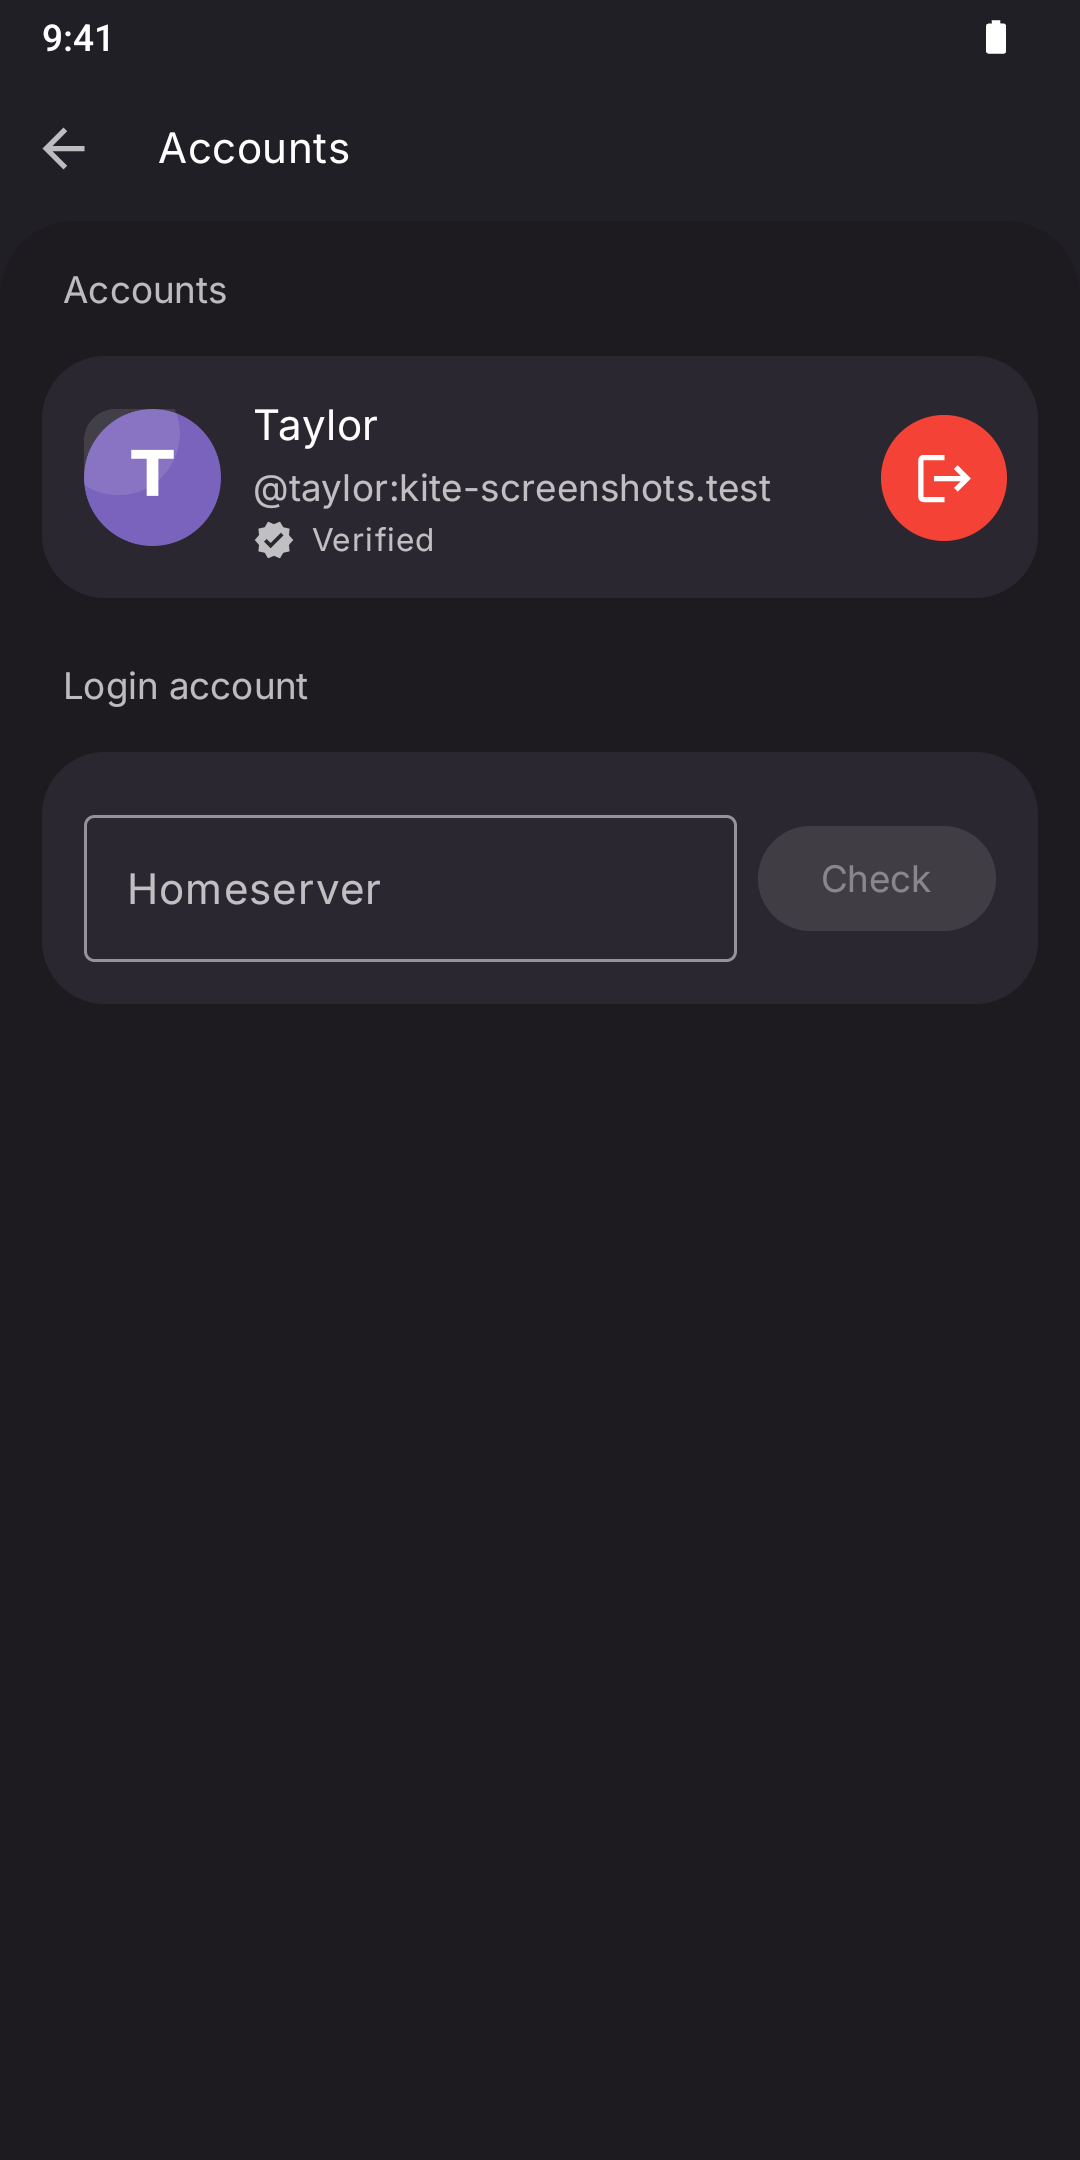
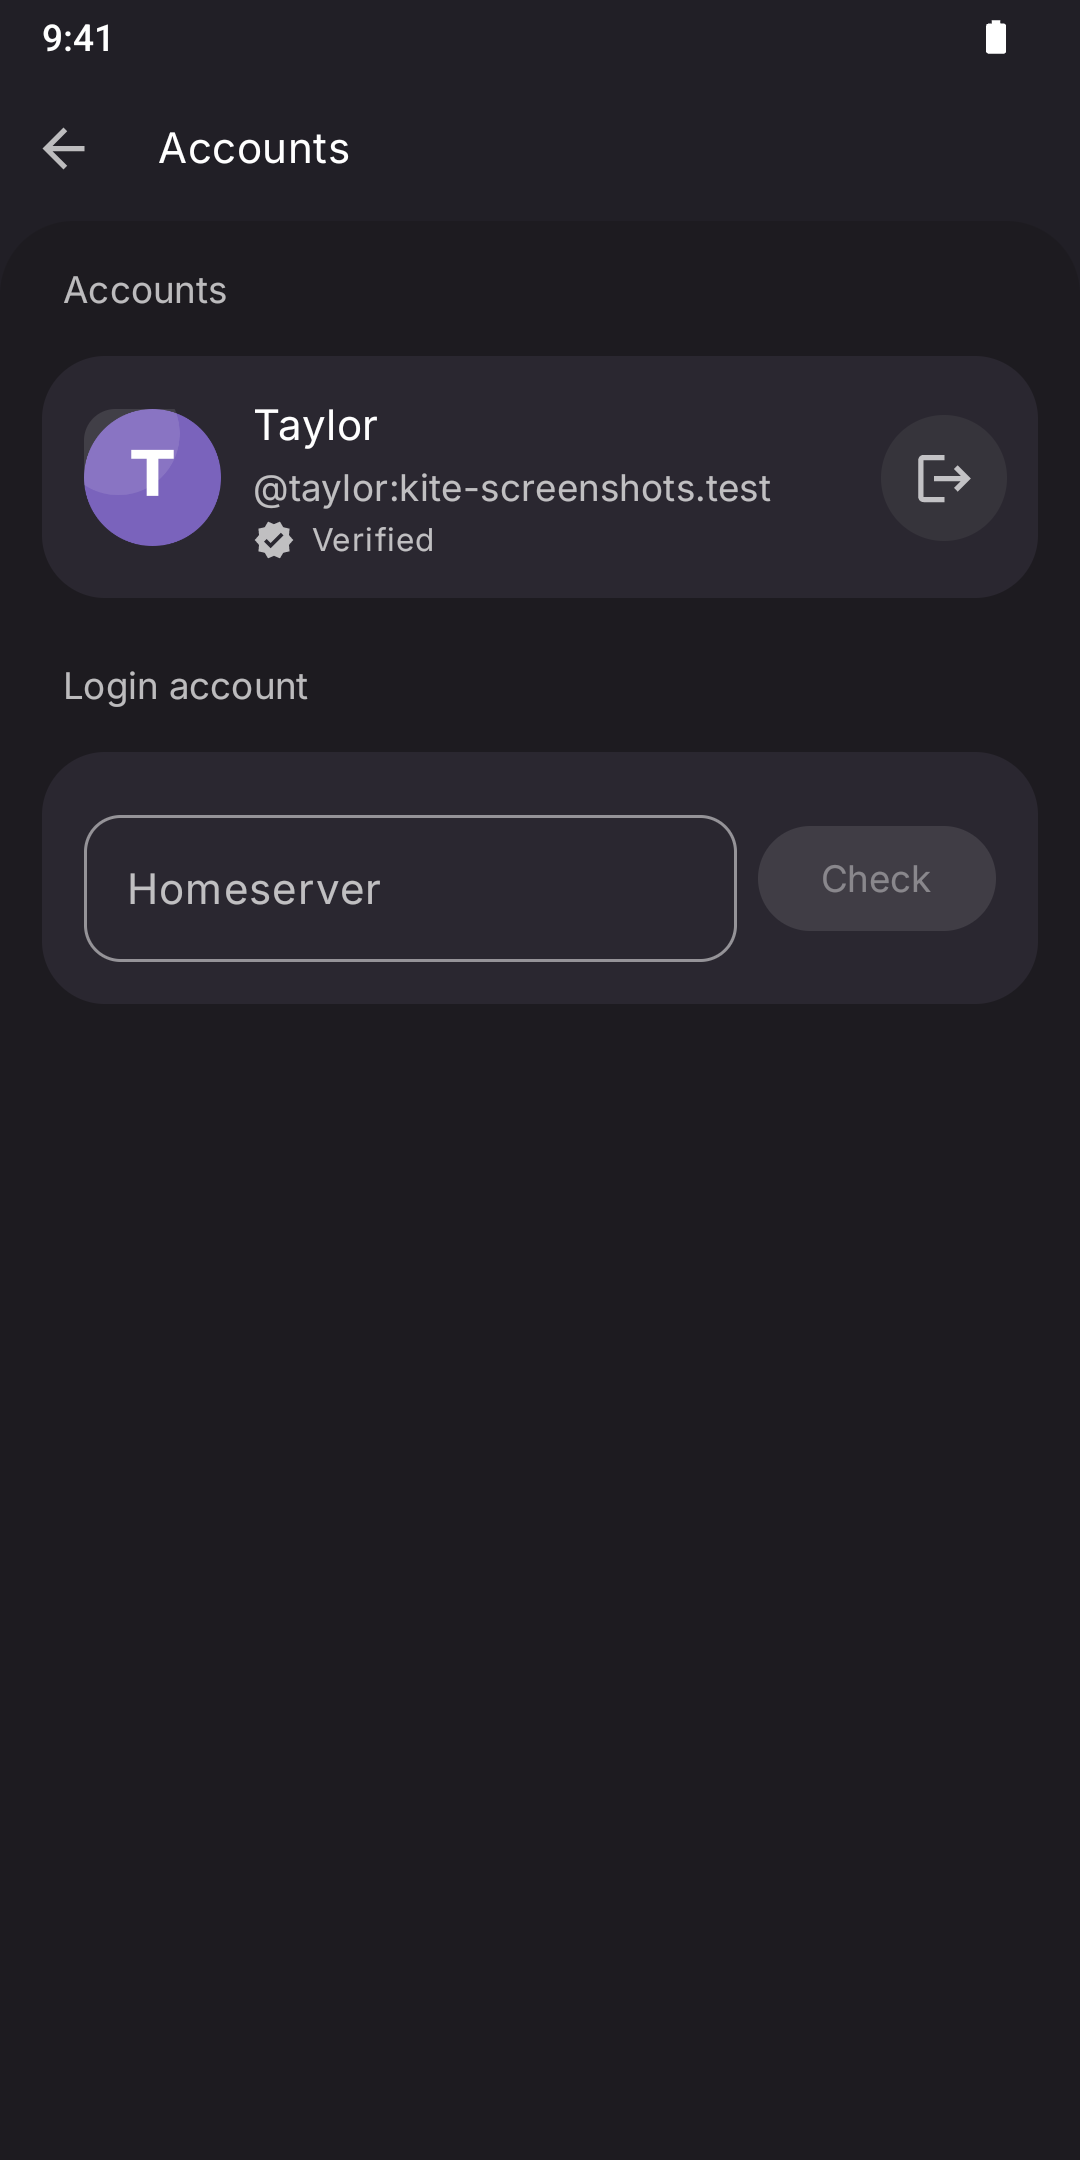
polish(kite): align account controls with tonal cards

Changed region(s): [[0.7944, 0.1861, 0.9472, 0.2481]]

diff --git a/composeApp/src/jvmMain/kotlin/chat/schildi/revenge/compose/destination/AccountManagementScreen.kt b/composeApp/src/jvmMain/kotlin/chat/schildi/revenge/compose/destination/AccountManagementScreen.kt
@@ -269,7 +269,7 @@ private fun ExistingLogin(account: AccountManagementData, viewModel: AccountMana
                 AccountManagementIconButton(
                     icon = rememberVectorPainter(Icons.AutoMirrored.Default.Logout),
                     contentDescription = stringResource(Res.string.action_logout),
-                    tint = MaterialTheme.colorScheme.onErrorContainer,
+                    tint = MaterialTheme.colorScheme.onSurfaceVariant,
                     focusId = logoutFocusId,
                 ) {
                     keyboardActionHandler.handleAction(
@@ -305,6 +305,7 @@ private fun ExistingLogin(account: AccountManagementData, viewModel: AccountMana
                         onValueChange = { recoveryKey = it },
                         label = { Text(stringResource(Res.string.hint_recovery_key)) },
                         singleLine = true,
+                        shape = RoundedCornerShape(14.dp),
                         modifier = Modifier.weight(1f).keyFocusable(FocusRole.TEXT_FIELD_SINGLE_LINE),
                     )
                     // TODO move to VM
@@ -490,6 +491,7 @@ private fun NewLogin(viewModel: AccountManagementViewModel) {
                 onValueChange = { homeserver = it },
                 label = { Text(stringResource(Res.string.hint_homeserver)) },
                 singleLine = true,
+                shape = RoundedCornerShape(14.dp),
                 modifier = Modifier.weight(1f).keyFocusable(FocusRole.TEXT_FIELD_SINGLE_LINE),
                 enabled = loginVariant == null && !setHomeserverInProgress.value,
             )
@@ -619,6 +621,7 @@ private fun ColumnScope.PasswordLogin(
         onValueChange = { username = it },
         label = { Text(stringResource(Res.string.hint_username)) },
         singleLine = true,
+        shape = RoundedCornerShape(14.dp),
         modifier = Modifier.fillMaxWidth().keyFocusable(FocusRole.TEXT_FIELD_SINGLE_LINE),
     )
     val passwordVisible = remember { mutableStateOf(false) }
@@ -626,6 +629,7 @@ private fun ColumnScope.PasswordLogin(
         value = password,
         onValueChange = { password = it },
         label = { Text(stringResource(Res.string.hint_password)) },
+        shape = RoundedCornerShape(14.dp),
         modifier = Modifier.fillMaxWidth().keyFocusable(FocusRole.TEXT_FIELD_SINGLE_LINE),
         visualTransformation = if (passwordVisible.value) {
             VisualTransformation.None
@@ -722,7 +726,7 @@ private fun AccountManagementIconButton(
     IconButton(
         modifier = modifier
             .size(40.dp)
-            .background(MaterialTheme.colorScheme.errorContainer, CircleShape)
+            .background(MaterialTheme.colorScheme.surfaceContainerHighest, CircleShape)
             .keyFocusable(
                 role = role,
                 id = focusId,

diff --git a/MIGRATION.md b/MIGRATION.md
@@ -1443,3 +1443,9 @@ After the b7fd251b visual slice was committed, concurrent adjacent work advanced
 
[2 lines of base64/hex data omitted]
+
+## 2026-10-24 — Accounts visual polish
+
+- Compared genuine light/dark Accounts captures with the prior verified screenshots and the pinned Google Messages Material 3 references. Replaced the vivid sign-out circle with a tonal icon surface; rounded existing Homeserver, username, password and recovery-key fields to 14dp. No account action or Matrix behavior changed.
+- GLASS buildq #1195 `:androidApp:assemblePerfDebug -PandroidAbi=x86 --offline --no-daemon` PASS; installed only on fixture Waydroid `192.168.240.112:5555`. Regenerated 50 genuine Android states; `--verify` PASS with exactly eight Fastlane captures. The Accounts images differ as intended; unrelated group-capture timing variance was retained from the previously verified suite.
+- GLASS buildq #1196 `:composeApp:desktopTest --offline --no-daemon` PASS, `git diff --check` PASS. No Samsung or real Matrix account used for screenshots. Signed release and Samsung in-place install are pending.
